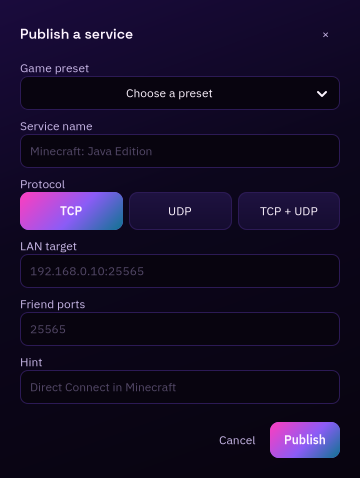
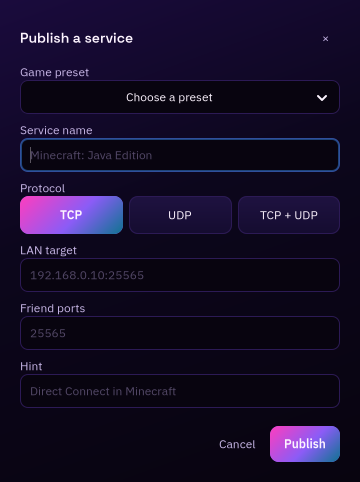
Fixed the preset popover transparency and dialog dragging
The popover CSS referenced @surface, which was never defined, so GTK discarded every background declaration and fell back to the theme's translucent popover. Added the missing palette entries plus a test that fails when style.css references an undefined colour. The dialog drag strip now expands across the full window width and sits above the content margins, so the whole title area drags. Selecting a preset closes the popover and updates the button label.

diff --git a/internal/gtkui/style.css b/internal/gtkui/style.css
@@ -1,5 +1,6 @@
 @define-color ink #08040F;
 @define-color deep #120A2E;
+@define-color surface #150C2E;
 @define-color raised #1A1035;
 @define-color hairline #2C1A55;
 @define-color pale #FDF4FF;
@@ -9,6 +10,8 @@
 @define-color violet #8B5CF6;
 @define-color cyan #22D3EE;
 @define-color live #4ADE80;
+@define-color danger #FF6B81;
+@define-color warning #F5B942;
 
 window,
 window.csd,
@@ -456,3 +459,10 @@ box.preset-list {
   background-image: none;
 }
 
+box.preset-surface {
+  background-color: @surface;
+  background-image: none;
+  border: 1px solid @hairline;
+  border-radius: 10px;
+  padding: 6px;
+}

diff --git a/internal/gtkui/dialogs.go b/internal/gtkui/dialogs.go
@@ -302,6 +302,7 @@ func (u *probeUI) showAddServiceDialog(g group.Group) {
 			setProtocol(protoIndex(item.Proto))
 			presetMenu.SetLabel(item.Name)
 			presetPopover.Popdown()
+			presetMenu.SetActive(false)
 		})
 		presetList.Append(button)
 	}
@@ -315,7 +316,10 @@ func (u *probeUI) showAddServiceDialog(g group.Group) {
 	presetPopover.AddCSSClass("preset-popover")
 	presetPopover.SetHasArrow(false)
 	presetPopover.SetAutohide(true)
-	presetPopover.SetChild(presetScroll)
+	presetSurface := gtk.NewBox(gtk.OrientationVertical, 0)
+	presetSurface.AddCSSClass("preset-surface")
+	presetSurface.Append(presetScroll)
+	presetPopover.SetChild(presetSurface)
 	presetMenu = gtk.NewMenuButton()
 	presetMenu.SetLabel("Choose a preset")
 	presetMenu.AddCSSClass("preset-menu")
@@ -549,8 +553,16 @@ func (u *probeUI) dialog(title string) (*gtk.Window, *gtk.Box) {
 	win.SetDefaultSize(360, 320)
 	win.SetDecorated(false)
 
+	outer := gtk.NewBox(gtk.OrientationVertical, 0)
+
+	topDrag := gtk.NewWindowHandle()
+	topDrag.SetHExpand(true)
+	topDrag.SetSizeRequest(-1, 24)
+	u.enableWindowDrag(topDrag, win)
+	outer.Append(topDrag)
+
 	content := gtk.NewBox(gtk.OrientationVertical, 0)
-	content.SetMarginTop(20)
+	content.SetMarginTop(0)
 	content.SetMarginBottom(20)
 	content.SetMarginStart(20)
 	content.SetMarginEnd(20)
@@ -569,7 +581,8 @@ func (u *probeUI) dialog(title string) (*gtk.Window, *gtk.Box) {
 	header.Append(close)
 	content.Append(header)
 	content.Append(gapBox(12))
-	win.SetChild(content)
+	outer.Append(content)
+	win.SetChild(outer)
 	return win, content
 }
 

diff --git a/internal/gtkui/style_test.go b/internal/gtkui/style_test.go
@@ -1,0 +1,41 @@
+package gtkui
+
+import (
+	"os"
+	"regexp"
+	"sort"
+	"testing"
+)
+
+// TestStyleColorsAreDefined guards against the silent failure mode where a
+// declaration references a colour that was never defined. GTK drops such
+// declarations, which previously left the preset popover transparent.
+func TestStyleColorsAreDefined(t *testing.T) {
+	css, err := os.ReadFile("style.css")
+	if err != nil {
+		t.Fatalf("read style.css: %v", err)
+	}
+
+	defined := make(map[string]bool)
+	for _, match := range regexp.MustCompile(`@define-color\s+([A-Za-z0-9_-]+)`).FindAllStringSubmatch(string(css), -1) {
+		defined[match[1]] = true
+	}
+
+	var missing []string
+	seen := make(map[string]bool)
+	for _, match := range regexp.MustCompile(`@([A-Za-z0-9_-]+)`).FindAllStringSubmatch(string(css), -1) {
+		name := match[1]
+		if name == "define-color" || seen[name] {
+			continue
+		}
+		seen[name] = true
+		if !defined[name] {
+			missing = append(missing, name)
+		}
+	}
+
+	sort.Strings(missing)
+	if len(missing) > 0 {
+		t.Fatalf("style.css references undefined colours: %v", missing)
+	}
+}
